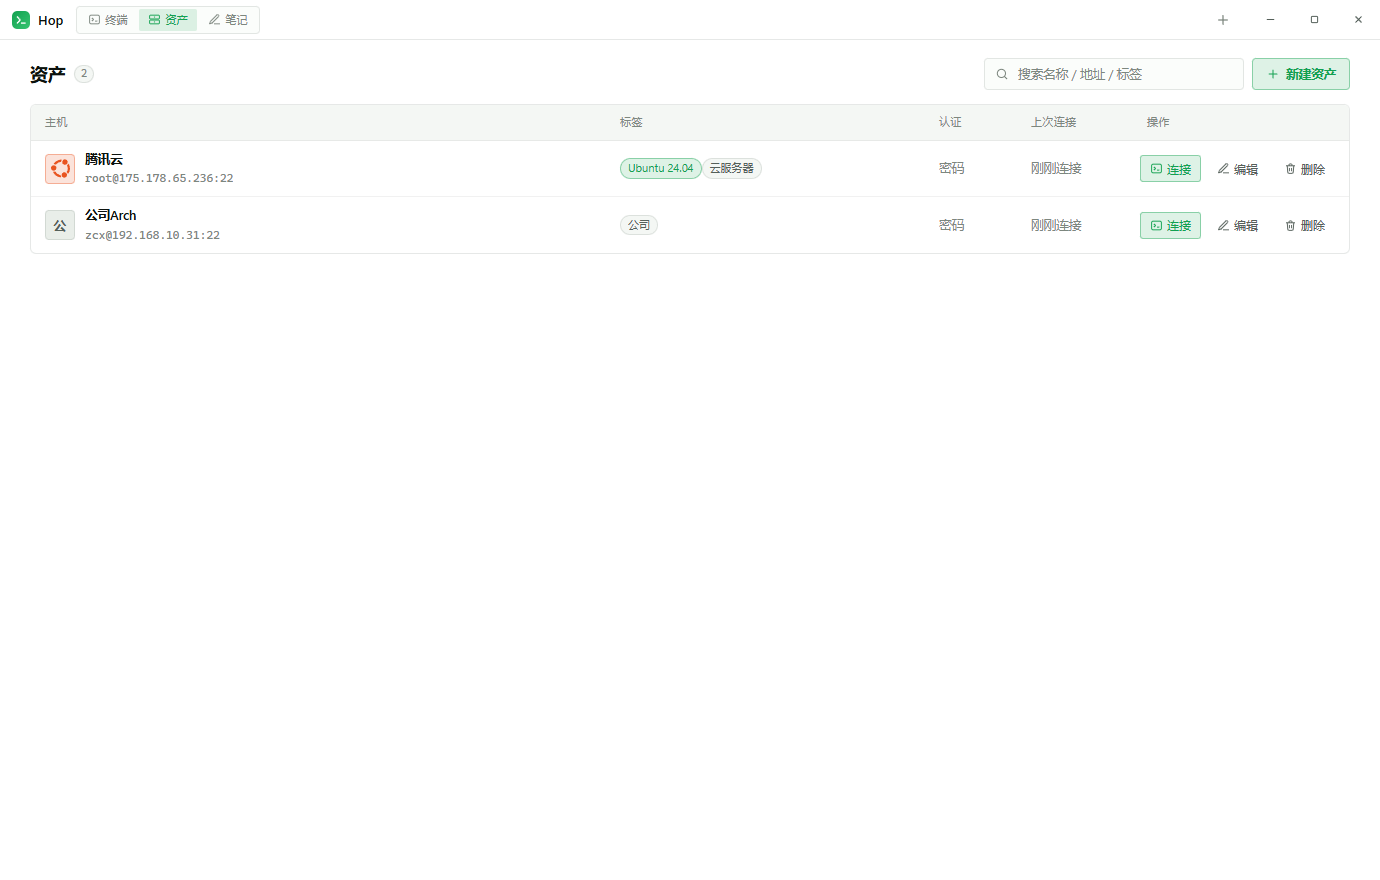
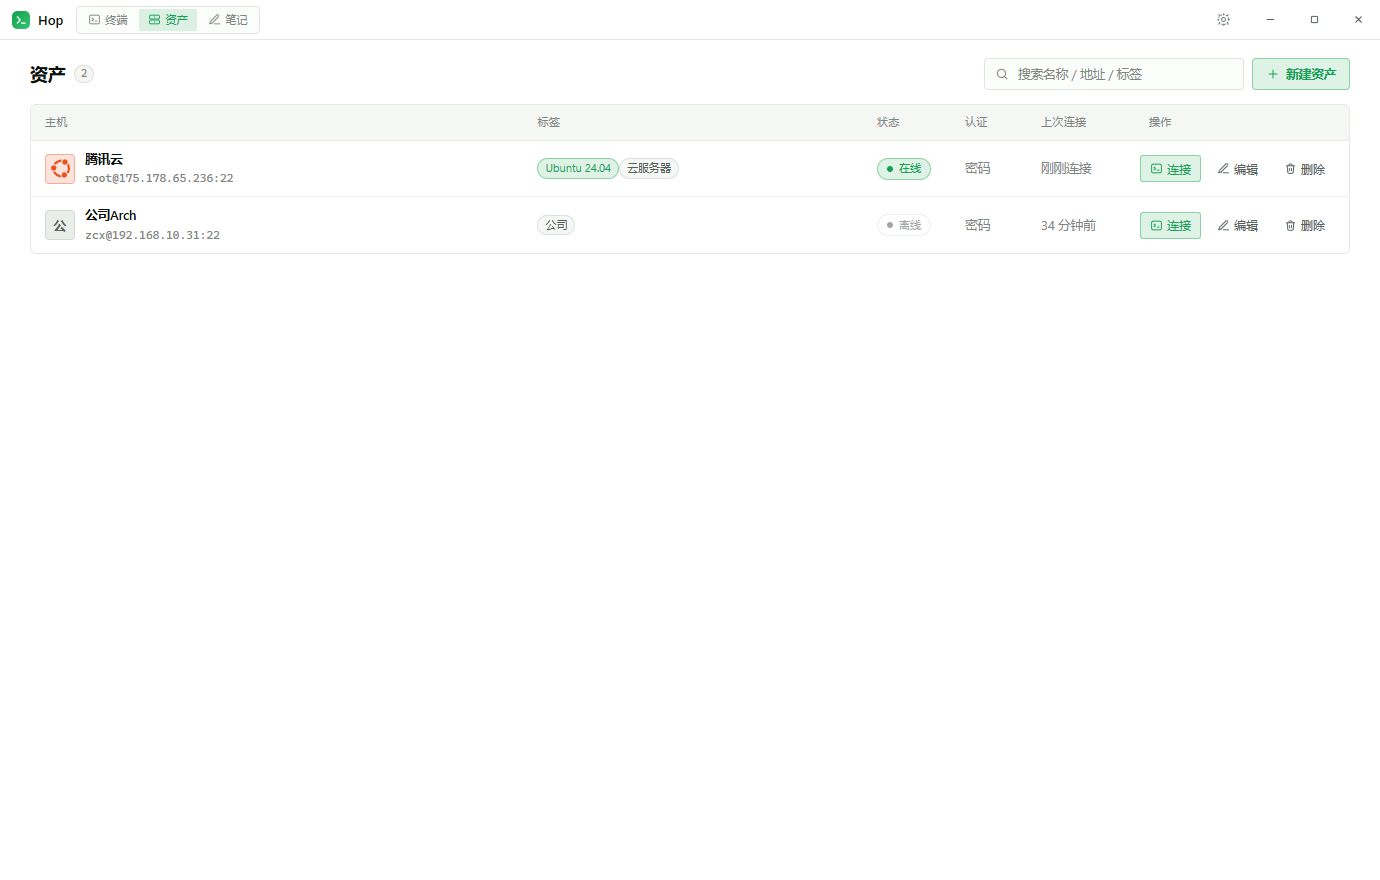
fix(assets): 状态列改为 TCP 端口探测，不再「没会话就一律离线」
- 新增 src/main/core/probe.ts：只建 socket 的 TCP 探测（1.8 s 超时，区分 timeout / refused / dns），
  小并发批量执行
- 网关新增 POST /hosts/probe（只读取已有 profile 的 host/port，不碰凭据）
- 资产页：已连接 → 已连接；建连中 → 连接中；否则按探测结果 在线 / 离线，未出结果 检测中；
  进入页面即探测，之后每 20 秒刷新
- 文档与截图同步

diff --git a/src/components/AssetsPage.tsx b/src/components/AssetsPage.tsx
@@ -1,4 +1,6 @@
-import { useMemo, useState } from 'react';
+import { useEffect, useMemo, useState } from 'react';
+import { isMock } from '../api/config';
+import { probeHosts } from '../api/workspace';
 import { relativeTime } from '../lib/visual';
 import { useApp } from '../store/AppStore';
 import { DistroIcon } from './ui/DistroIcon';
@@ -11,18 +13,22 @@ const AUTH_LABEL: Record<string, string> = {
   agent: 'Agent',
 };
 
-type HostStatus = 'online' | 'connecting' | 'offline';
+type HostStatus = 'connected' | 'connecting' | 'online' | 'offline' | 'checking';
 
 const STATE_LABEL: Record<HostStatus, string> = {
-  online: '在线',
+  connected: '已连接',
   connecting: '连接中',
+  online: '在线',
   offline: '离线',
+  checking: '检测中',
 };
 
 const STATE_HINT: Record<HostStatus, string> = {
-  online: '当前有会话已连上',
+  connected: '当前有会话已连上',
   connecting: '正在建立连接',
-  offline: '当前没有活动会话',
+  online: 'SSH 端口可连通，尚未建立会话',
+  offline: 'SSH 端口探测不通',
+  checking: '正在探测 SSH 端口',
 };
 
 /** 状态点 + 文案：在线 / 连接中 / 离线 */
@@ -43,15 +49,49 @@ export function AssetsPage() {
   const { state, actions } = useApp();
   const { hosts, hostsLoaded, hostsError, sessions } = state;
   const [query, setQuery] = useState('');
+  /** 端口探测结果：在线 / 离线；还没有结果时为 undefined */
+  const [reach, setReach] = useState<Record<string, boolean>>({});
 
-  /** 会话决定状态：有已连接会话=在线，正在建连=连接中，其余=离线 */
+  /** 状态 = 会话状态优先，没有会话时看 SSH 端口通不通 */
   const statusOf = (hostId: string): HostStatus => {
     const session = sessions.find((item) => item.hostId === hostId);
-    if (!session) return 'offline';
-    if (session.status === 'connected') return 'online';
-    if (session.status === 'connecting' || session.status === 'reconnecting') return 'connecting';
-    return 'offline';
+    if (session?.status === 'connected') return 'connected';
+    if (session?.status === 'connecting' || session?.status === 'reconnecting') return 'connecting';
+    const probed = reach[hostId];
+    if (probed === true) return 'online';
+    if (probed === false) return 'offline';
+    return 'checking';
   };
+
+  // 进入资产页先探一轮，之后每 20 秒刷新一次；只测 TCP，不碰凭据
+  useEffect(() => {
+    const ids = hosts.map((host) => host.id);
+    if (!ids.length) return;
+    if (isMock()) {
+      // 演示模式没有真实端口，按示例主机名给一个稳定的结果
+      setReach(Object.fromEntries(ids.map((id) => [id, !id.endsWith('unreachable')])));
+      return;
+    }
+    let cancelled = false;
+    const run = () => {
+      probeHosts(ids)
+        .then((results) => {
+          if (cancelled) return;
+          const next: Record<string, boolean> = {};
+          for (const [id, result] of Object.entries(results)) next[id] = result.reachable;
+          setReach(next);
+        })
+        .catch(() => {
+          /* 探测失败保持上一轮结果 */
+        });
+    };
+    run();
+    const timer = window.setInterval(run, 20_000);
+    return () => {
+      cancelled = true;
+      window.clearInterval(timer);
+    };
+  }, [hosts]);
 
   const list = useMemo(() => {
     const keyword = query.trim().toLowerCase();

diff --git a/src/main/core/probe.ts b/src/main/core/probe.ts
@@ -1,0 +1,66 @@
+/**
+ * 主机可达性探测。
+ *
+ * 只做一次 TCP 连接（不做 SSH 握手、不发送任何凭据），因此可以频繁调用：
+ * 用于资产页「在线 / 离线」状态，以及连接前的快速预检。
+ */
+import { connect } from 'node:net';
+
+export interface ProbeResult {
+  reachable: boolean;
+  /** 建连耗时（毫秒），不可达时为 null */
+  rttMs: number | null;
+  /** 失败原因：timeout / refused / dns / error */
+  reason?: string;
+}
+
+/**
+ * 探测 host:port 的 TCP 可达性。
+ * 超时默认 1.8 s —— 跨公网的一次 SYN 往返通常远小于这个值。
+ */
+export function probeTcp(host: string, port: number, timeoutMs = 1800): Promise<ProbeResult> {
+  return new Promise((resolve) => {
+    const started = Date.now();
+    const socket = connect({ host, port });
+    let settled = false;
+
+    const finish = (result: ProbeResult) => {
+      if (settled) return;
+      settled = true;
+      socket.destroy();
+      resolve(result);
+    };
+
+    socket.setTimeout(timeoutMs);
+    socket.once('connect', () => finish({ reachable: true, rttMs: Date.now() - started }));
+    socket.once('timeout', () => finish({ reachable: false, rttMs: null, reason: 'timeout' }));
+    socket.once('error', (error: NodeJS.ErrnoException) => {
+      const code = error.code ?? 'error';
+      finish({
+        reachable: false,
+        rttMs: null,
+        reason: code === 'ECONNREFUSED' ? 'refused' : code === 'ENOTFOUND' ? 'dns' : 'error',
+      });
+    });
+  });
+}
+
+/** 小并发批量探测，避免一次性打出几十个连接。 */
+export async function probeAll(
+  targets: Array<{ id: string; host: string; port: number }>,
+  concurrency = 6,
+  timeoutMs = 1800,
+): Promise<Record<string, ProbeResult>> {
+  const results: Record<string, ProbeResult> = {};
+  let cursor = 0;
+  const workers = Array.from({ length: Math.min(concurrency, targets.length) }, async () => {
+    for (;;) {
+      const index = cursor++;
+      const target = targets[index];
+      if (!target) return;
+      results[target.id] = await probeTcp(target.host, target.port, timeoutMs);
+    }
+  });
+  await Promise.all(workers);
+  return results;
+}

diff --git a/src/main/server/gateway.ts b/src/main/server/gateway.ts
@@ -13,6 +13,7 @@ import type {
 import { toHopError } from '../core/errors';
 import type { KnownHostsStore } from '../core/known-hosts';
 import { createLogger } from '../core/logger';
+import { probeAll } from '../core/probe';
 import type { ProfileStore } from '../core/profile-store';
 import { SessionManager } from '../core/session-manager';
 import type { SftpService } from '../core/sftp-service';
@@ -410,6 +411,20 @@ export async function startGateway(deps: GatewayDeps): Promise<GatewayHandle | n
 
     if (path === '/hosts' && method === 'GET') {
       sendJson(res, 200, deps.profiles.list().map(toHost));
+      return;
+    }
+
+    // 资产页「在线 / 离线」：只做 TCP 探测，不涉及凭据
+    if (path === '/hosts/probe' && method === 'POST') {
+      const body = await readJson(req);
+      const ids = Array.isArray(body.ids) ? body.ids.filter((id): id is string => typeof id === 'string') : [];
+      const targets = ids
+        .slice(0, 100)
+        .map((id) => deps.profiles.get(id))
+        .filter((profile): profile is NonNullable<typeof profile> => Boolean(profile))
+        .map((profile) => ({ id: profile.id, host: profile.host, port: profile.port }));
+      const results = await probeAll(targets);
+      sendJson(res, 200, { results });
       return;
     }
 

diff --git a/src/components/AssetsPage.css b/src/components/AssetsPage.css
@@ -278,6 +278,15 @@
   flex: 0 0 auto;
 }
 
+/* 已连接：实心强调色 */
+.assets__state--connected {
+  color: var(--accent-ink);
+  border-color: transparent;
+  background: var(--accent);
+  font-weight: 600;
+}
+
+/* 在线（端口通、未建会话）：描边样式，与已连接区分 */
 .assets__state--online {
   color: var(--accent);
   border-color: var(--accent-border);
@@ -285,7 +294,24 @@
 }
 
 .assets__state--online .assets__state-dot {
-  box-shadow: 0 0 0 3px color-mix(in srgb, var(--accent) 22%, transparent);
+  background: var(--accent);
+}
+
+/* 检测中：中性，轻微脉冲 */
+.assets__state--checking {
+  color: var(--text-3);
+  border-color: var(--border);
+}
+
+.assets__state--checking .assets__state-dot {
+  animation: assets-pulse 1.1s ease-in-out infinite;
+}
+
+/* 离线：压暗 */
+.assets__state--offline {
+  color: var(--text-3);
+  border-color: var(--border);
+  opacity: 0.72;
 }
 
 .assets__state--connecting {

diff --git a/src/api/workspace.ts b/src/api/workspace.ts
@@ -93,6 +93,24 @@ export const listTransfers = (hostId?: string): Promise<Transfer[]> =>
 
 export const clearTransfers = (): Promise<void> => request<void>('/transfers', { method: 'DELETE' });
 
+/* ---- 主机可达性 -------------------------------------------------------- */
+
+export type ProbeReason = 'timeout' | 'refused' | 'dns' | 'error';
+
+export interface ProbeResult {
+  reachable: boolean;
+  rttMs: number | null;
+  reason?: ProbeReason;
+}
+
+/** 只做 TCP 探测（不握手、不发凭据），用于资产页的在线 / 离线状态。 */
+export const probeHosts = (ids: string[]): Promise<Record<string, ProbeResult>> =>
+  request<{ results: Record<string, ProbeResult> }>('/hosts/probe', {
+    method: 'POST',
+    body: JSON.stringify({ ids }),
+    timeoutMs: 8000,
+  }).then((payload) => payload.results);
+
 /* ---- 主机监控 ---------------------------------------------------------- */
 
 export interface HostAddress {

diff --git a/README.md b/README.md
@@ -35,7 +35,7 @@
 
 | 能力 | 说明 |
 | --- | --- |
-| 🗄 资产页 | 后台管理式列表（标题栏「终端 / 资产 / 笔记」切换，`Esc` 回终端）：主机 / 标签 / 认证 / 上次连接 / 操作五列，每行 **连接 · 编辑 · 删除**，搜索名称·地址·标签，收藏置顶 |
+| 🗄 资产页 | 后台管理式列表（标题栏「终端 / 资产 / 笔记」切换，`Esc` 回终端）：主机 / 标签 / 认证 / 上次连接 / 操作六列，每行 **连接 · 编辑 · 删除**，搜索名称·地址·标签，收藏置顶；状态列用 **TCP 探测**（不握手、不碰凭据）区分 在线 / 离线，已建会话显示 已连接，每 20 秒自动刷新 |
 | 🐧 发行版图标 | 连上主机后自动读取 `/etc/os-release`（回退 `uname`），把发行版记在资产上；Ubuntu / Debian / Arch / Rocky / Fedora / Alpine / openSUSE / Kali 等直接显示品牌标志，未识别时退回主机名首字 |
 | 🗂 多会话标签 | 同一主机可开多个会话（标签带序号）、连接状态点、快捷键切换、中键/⌘W 关闭 |
 | ⌨ 真终端 | xterm.js + WebGL 渲染 + 自适应尺寸 + 主题跟随 + 断线重连；SSH socket 关闭 Nagle，逐键回显不做多余攒包 |

diff --git a/CHANGELOG.md b/CHANGELOG.md
@@ -3,6 +3,13 @@
 本文件是发布说明的唯一来源：打 tag 时 CI 会取对应版本的章节，生成 GitHub Release 的正文。
 每条都用中文写清「改了什么、为什么改」。
 
+## 未发布
+
+### 修复
+
+- **资产页状态**：之前只看有没有会话，没连会话就一律显示「离线」。现在改为先做一次 **TCP 端口探测**（只建立 socket，不做 SSH 握手、不发送任何凭据，1.8 秒超时），
+  端口通就算「在线」；有会话时显示「已连接」，没探测出结果时是「检测中」。进入资产页立刻探一轮，之后每 20 秒刷新一次。
+
 ## v0.0.4
 
 ### 新增
